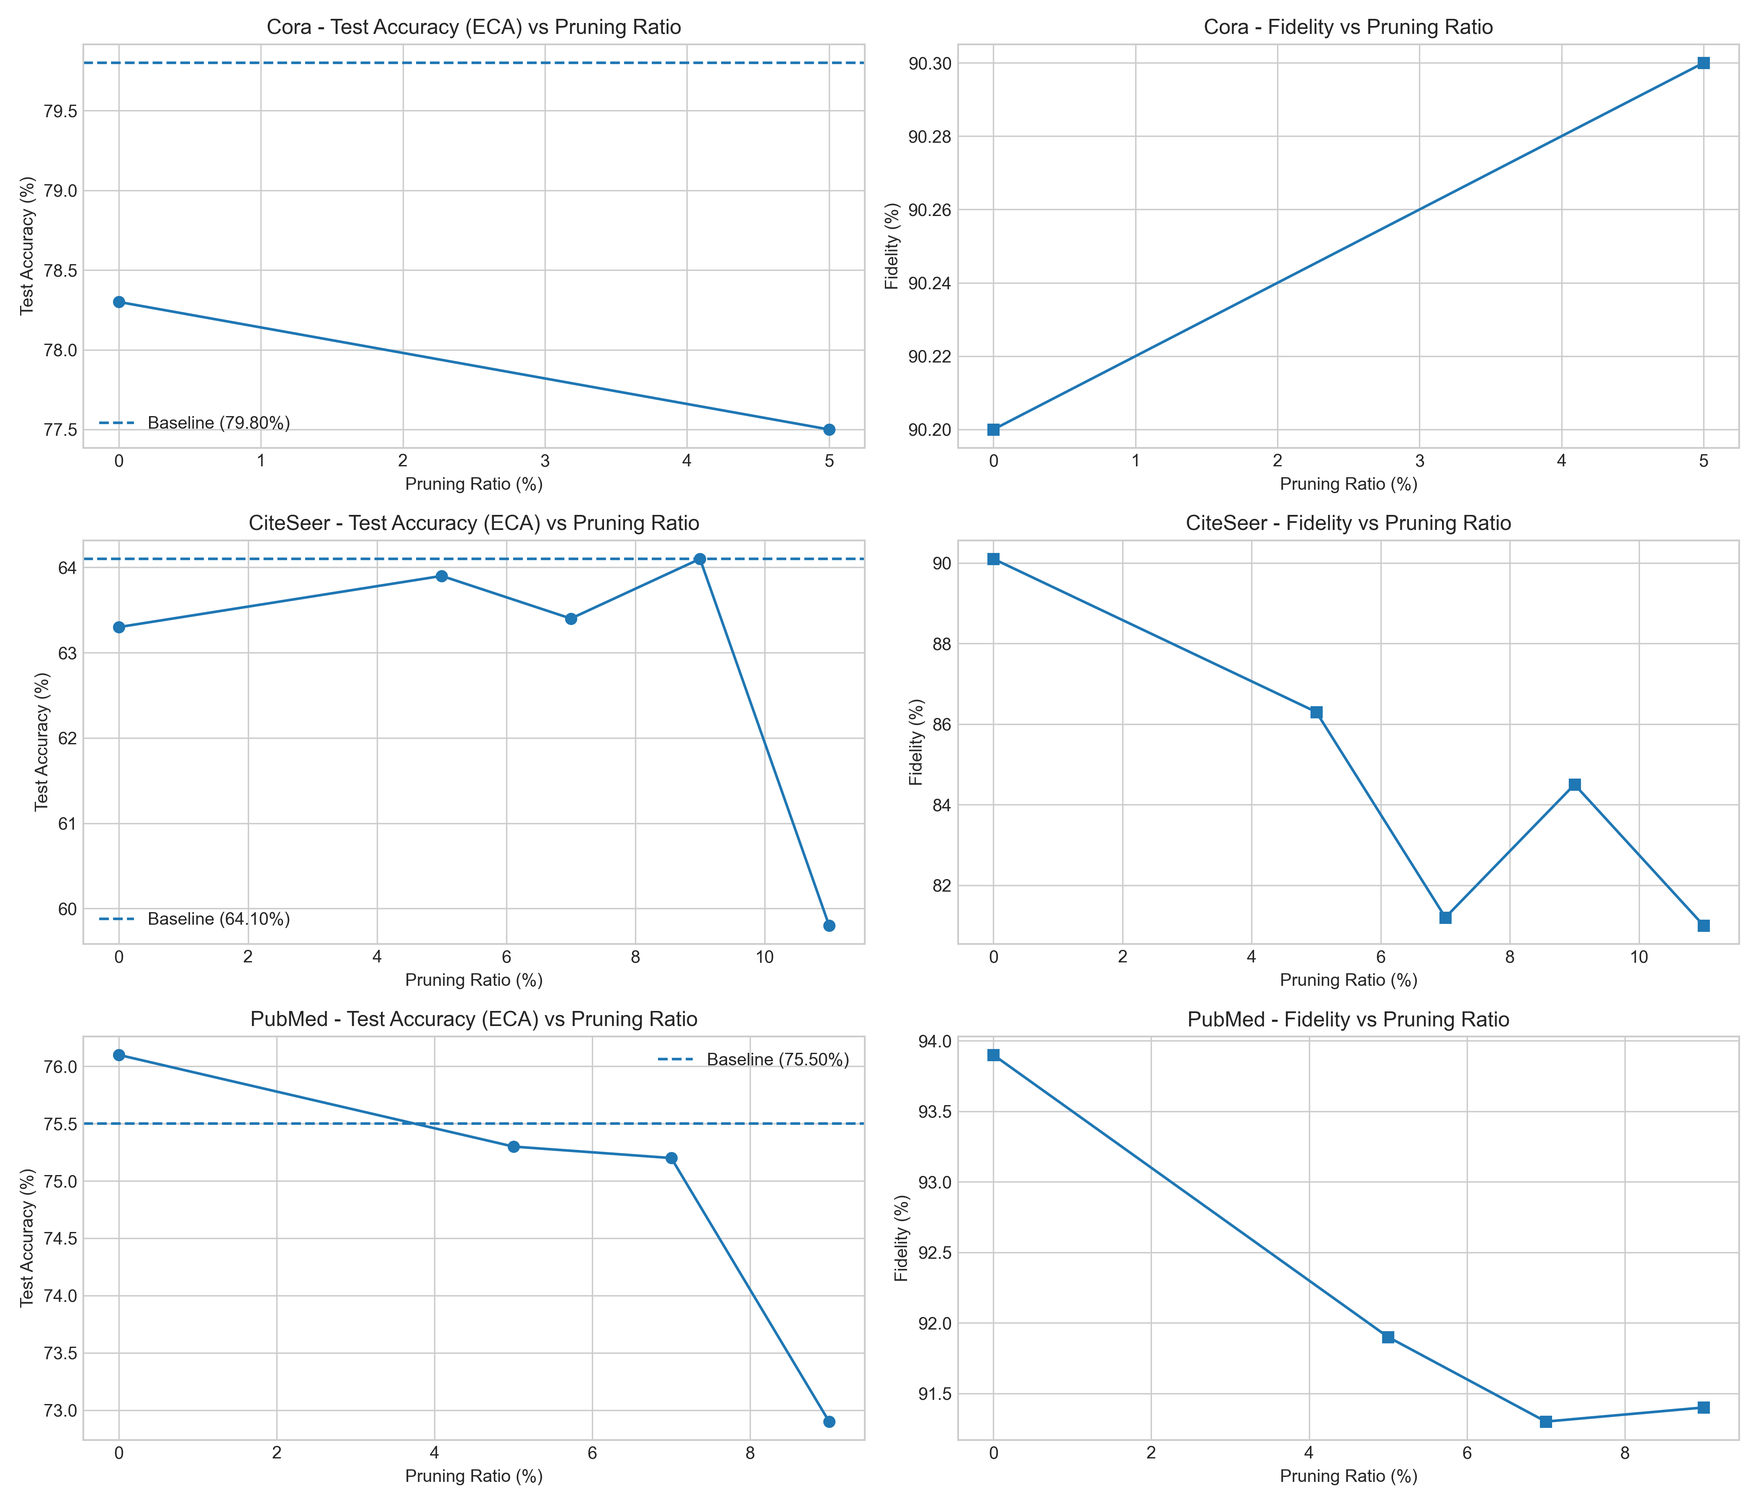
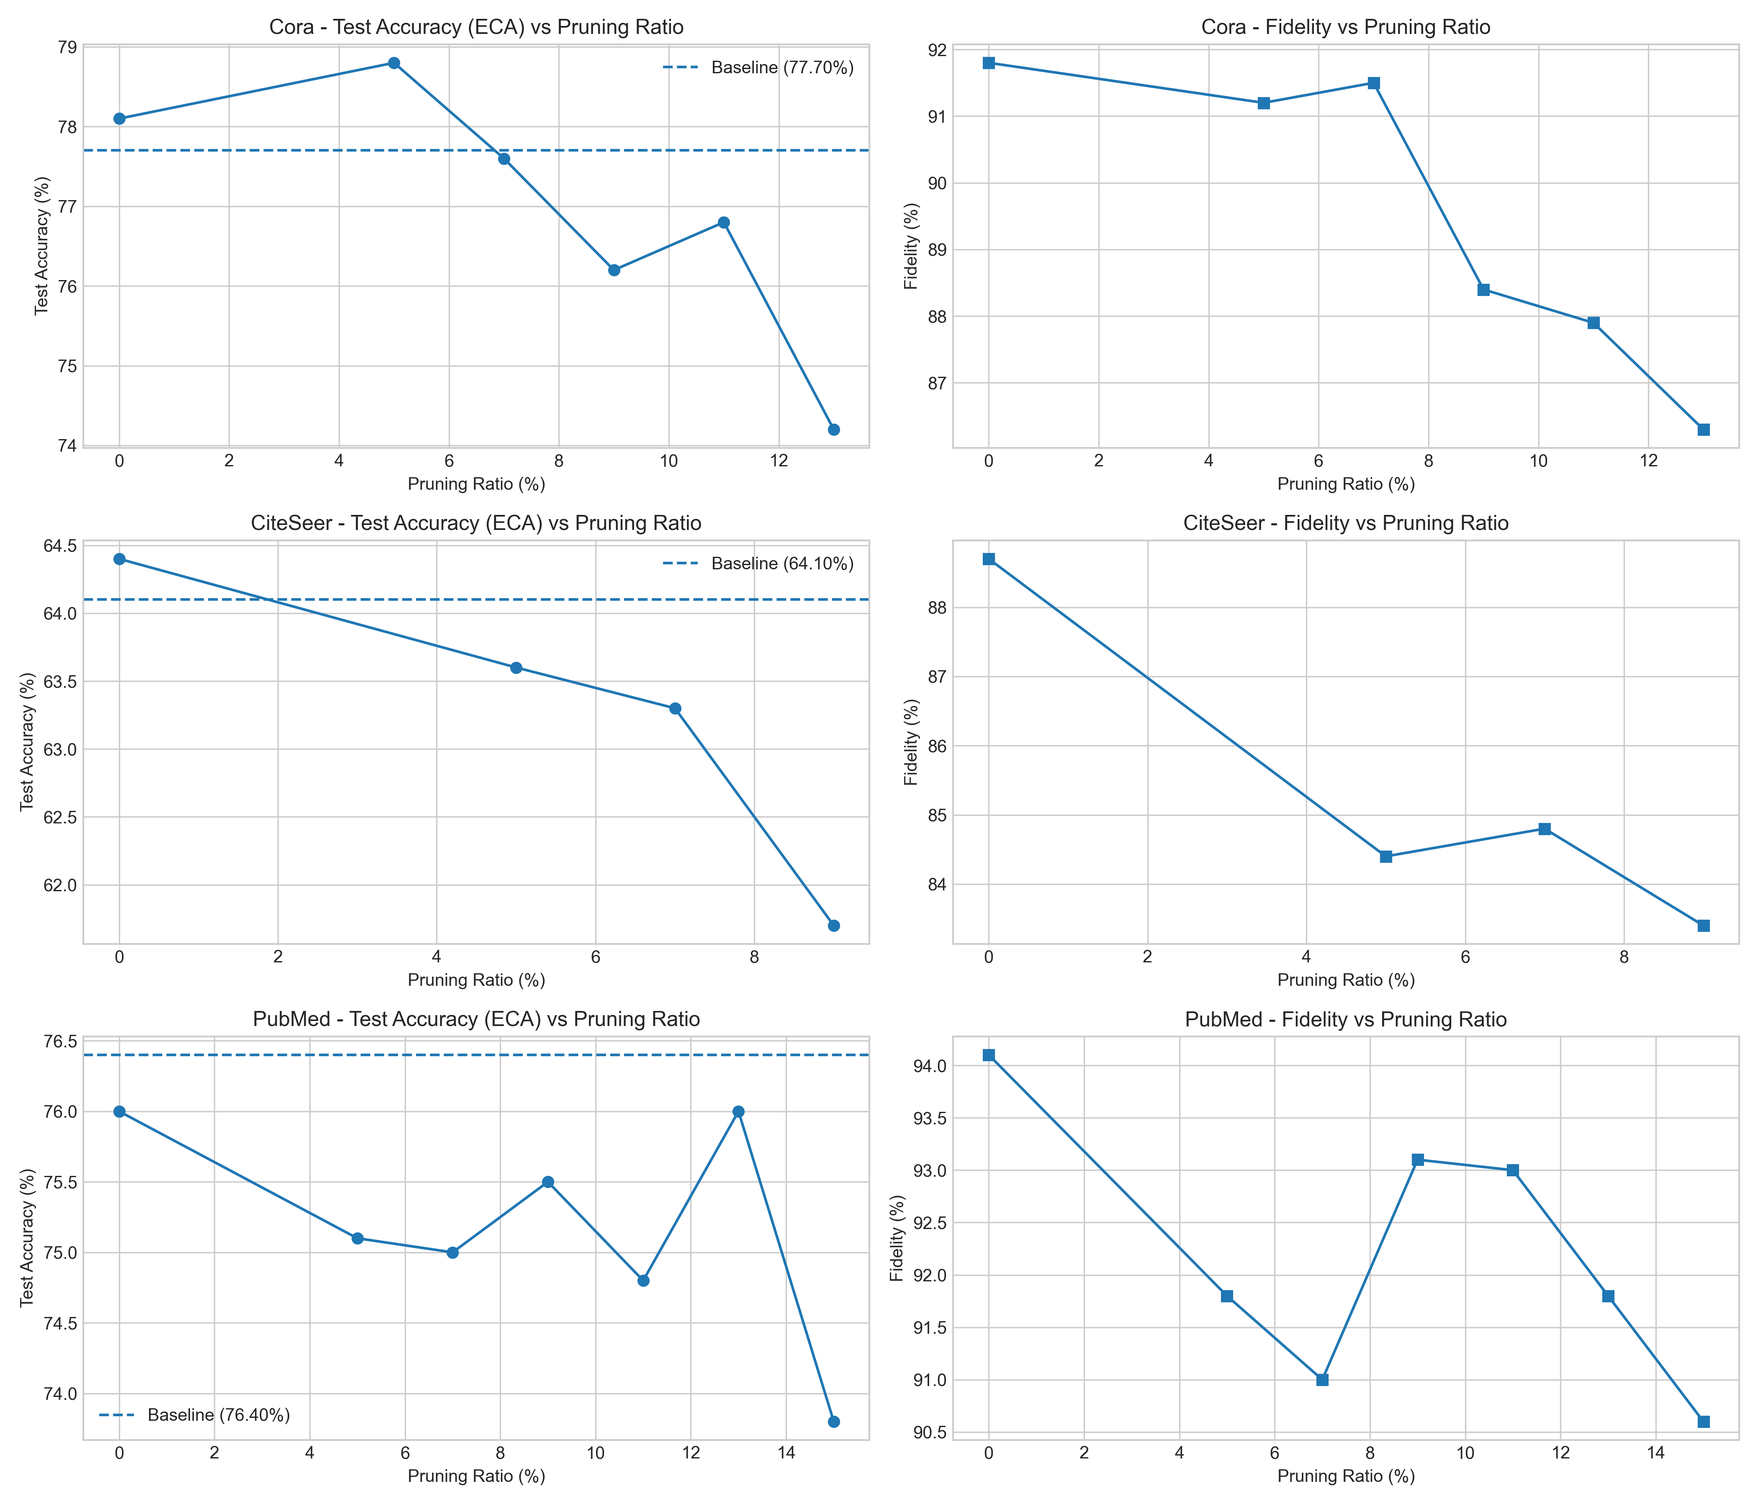
removed comments, unwanted print statements and visualization function

diff --git a/examples/defense/evaluate_backdoor_wm.py b/examples/defense/evaluate_backdoor_wm.py
@@ -1,17 +1,14 @@
 import argparse
 import torch
 import torch.nn.functional as F
-import matplotlib.pyplot as plt
-import numpy as np
-
-from pygip.datasets import Cora, CiteSeer, PubMed
+from pygip.datasets.datasets import Cora, CiteSeer, PubMed
 from pygip.models.defense.BackdoorWM import BackdoorWM
 from pygip.models.nn import GCN
 
 def train_local_model(model, graph, features, labels, mask, device, epochs=300, lr=0.01):
     """A helper function to train a model locally."""
     optimizer = torch.optim.Adam(model.parameters(), lr=lr, weight_decay=5e-4)
-    for epoch in range(epochs):
+    for _ in range(epochs):
         model.train()
         optimizer.zero_grad()
         logits = model(graph.to(device), features.to(device))
@@ -20,155 +17,58 @@ def train_local_model(model, graph, features, labels, mask, device, epochs=300, 
         optimizer.step()
     return model
 
-def visualize_and_save_results(all_results):
-    """
-    Creates a single, comprehensive plot with three sub-charts for all metrics
-    and saves it as one PNG file.
-    """
-    dataset_names = [res['name'] for res in all_results]
-    n_datasets = len(dataset_names)
-
-    original_accs = [res['results']['original_metrics']['accuracy'] * 100 for res in all_results]
-    tcas = [res['results']['TCA'] * 100 for res in all_results]
-    eca1s = [res['results']['s1_metrics']['accuracy'] * 100 for res in all_results]
-    eca2s = [res['results']['s2_metrics']['accuracy'] * 100 for res in all_results]
-    
-    tbas = [res['results']['TBA'] * 100 for res in all_results]
-    eba1s = [res['results']['EBA1'] * 100 for res in all_results]
-    eba2s = [res['results']['EBA2'] * 100 for res in all_results]
-
-    original_f1s = [res['results']['original_metrics']['f1'] for res in all_results]
-    defense_f1s = [res['results']['defense_metrics']['f1'] for res in all_results]
-    s1_f1s = [res['results']['s1_metrics']['f1'] for res in all_results]
-    s2_f1s = [res['results']['s2_metrics']['f1'] for res in all_results]
-
-    x = np.arange(n_datasets)
-    width = 0.2
-    fig, (ax1, ax2, ax3) = plt.subplots(1, 3, figsize=(28, 8))
-    fig.suptitle('Comprehensive Backdoor Watermark Analysis', fontsize=20)
-
-    ax1.bar(x - 1.5*width, original_accs, width, label='Baseline (Clean)')
-    ax1.bar(x - 0.5*width, tcas, width, label='Watermarked (TCA)')
-    ax1.bar(x + 0.5*width, eca1s, width, label='Surrogate w/ Coop (ECA1)')
-    ax1.bar(x + 1.5*width, eca2s, width, label='Surrogate w/o Coop (ECA2)')
-    ax1.set_title('Clean Accuracy Comparison', fontsize=14)
-    ax1.set_ylabel('Accuracy (%)')
-    ax1.set_xticks(x, dataset_names)
-    ax1.set_ylim(0, 100)
-    ax1.legend()
-    ax1.grid(axis='y', linestyle='--', alpha=0.7)
-
-    ax2.bar(x - width, tbas, width, label='Watermarked (TBA)')
-    ax2.bar(x, eba1s, width, label='Surrogate w/ Coop (EBA1)')
-    ax2.bar(x + width, eba2s, width, label='Surrogate w/o Coop (EBA2)')
-    ax2.set_title('Backdoor Accuracy (Watermark Transfer)', fontsize=14)
-    ax2.set_ylabel('Backdoor Accuracy (%)')
-    ax2.set_xticks(x, dataset_names)
-    ax2.set_ylim(0, 100)
-    ax2.legend()
-    ax2.grid(axis='y', linestyle='--', alpha=0.7)
-
-    ax3.bar(x - 1.5*width, original_f1s, width, label='Baseline (Clean)')
-    ax3.bar(x - 0.5*width, defense_f1s, width, label='Watermarked')
-    ax3.bar(x + 0.5*width, s1_f1s, width, label='Surrogate w/ Coop')
-    ax3.bar(x + 1.5*width, s2_f1s, width, label='Surrogate w/o Coop')
-    ax3.set_title('F1-Score Comparison (on Clean Data)', fontsize=14)
-    ax3.set_ylabel('F1-Score (Macro)')
-    ax3.set_xticks(x, dataset_names)
-    ax3.set_ylim(0, 1)
-    ax3.legend()
-    ax3.grid(axis='y', linestyle='--', alpha=0.7)
-
-    fig.tight_layout(rect=[0, 0.03, 1, 0.95])
-    filename = 'full_defense_analysis_summary.png'
-    plt.savefig(filename)
-    plt.close()
-    print(f"\nComprehensive results visualization saved to '{filename}'")
-
-
 def main():
-    parser = argparse.ArgumentParser(description="Run full analysis of Backdoor Watermarking Defense.")
+    parser = argparse.ArgumentParser(description="Evaluate Backdoor Watermarking Defense.")
     parser.add_argument('--datasets', nargs='+', default=['Cora', 'CiteSeer', 'PubMed'], help='List of datasets to run on.')
     parser.add_argument('--device', type=str, default='cpu', help='Device to use (e.g., "cpu", "cuda:0").')
     args = parser.parse_args()
 
     dataset_map = {'Cora': Cora, 'CiteSeer': CiteSeer, 'PubMed': PubMed}
     verification_threshold = 0.50
-    
-    all_results = []
 
     for dataset_name in args.datasets:
         if dataset_name not in dataset_map:
-            print(f"Dataset '{dataset_name}' not found. Skipping.")
             continue
-
-        print("\n" + "#"*70)
-        print(f"  ANALYZING DATASET: {dataset_name.upper()} on device {args.device.upper()}")
-        print("#"*70)
-
+        
+        print(f"\n--- Results for: {dataset_name} ---")
         dataset = dataset_map[dataset_name](api_type='dgl')
         med = BackdoorWM(dataset, attack_node_fraction=0.1, trigger_rate=0.2, l=40, target_label=0)
         med.device = torch.device(args.device)
         med.graph_data = med.graph_data.to(med.device)
 
-        print("\n--- Training Clean Baseline Model ---")
         clean_model = GCN(med.num_features, med.num_classes).to(med.device)
+
+        # --- Watermarked Model Training & Verification ---
+        # Train the target model with the backdoor watermark embedded.
         train_local_model(clean_model, med.graph_data, med.features, med.labels, med.train_mask, med.device)
-        original_metrics = med.evaluate_model(clean_model, med.features, med.labels)
         
-        print("\n--- Training Watermarked Target Model (F_wm) ---")
         watermarked_model = med.train_target_model()
-        defense_metrics = med.evaluate_model(watermarked_model, med.features, med.labels) 
-        TCA = defense_metrics['accuracy']
         TBA = med.verify_backdoor(watermarked_model, med.trigger_nodes, med.target_label) 
 
-        print("\n--- Simulating Model Extraction Attacks ---")
+        # --- Surrogate Model 1: Cooperative Attacker ---
+        # Simulate a model extraction attack where the attacker knows about the poisoned features.
         surrogate_model_1 = GCN(med.num_features, med.num_classes).to(med.device)
         with torch.no_grad():
             surrogate_labels_1 = watermarked_model(med.graph_data, med.poisoned_features).argmax(dim=1)
         train_local_model(surrogate_model_1, med.graph_data, med.poisoned_features, surrogate_labels_1, med.train_mask, med.device)
-        s1_metrics = med.evaluate_model(surrogate_model_1, med.features, med.labels)
         EBA1 = med.verify_backdoor(surrogate_model_1, med.trigger_nodes, med.target_label)
         
+        # --- Surrogate Model 2: Non-Cooperative Attacker ---
+        # Simulate an attack where the attacker only has black-box access and uses clean data.
         surrogate_model_2 = GCN(med.num_features, med.num_classes).to(med.device)
         with torch.no_grad():
             surrogate_labels_2 = watermarked_model(med.graph_data, med.features).argmax(dim=1)
         train_local_model(surrogate_model_2, med.graph_data, med.features, surrogate_labels_2, med.train_mask, med.device)
-        s2_metrics = med.evaluate_model(surrogate_model_2, med.features, med.labels)
         EBA2 = med.verify_backdoor(surrogate_model_2, med.trigger_nodes, med.target_label)
 
-        
-        results_for_viz = {
-            'original_metrics': original_metrics, 'TCA': TCA, 'TBA': TBA,
-            'defense_metrics': defense_metrics, 's1_metrics': s1_metrics,
-            's2_metrics': s2_metrics, 'EBA1': EBA1, 'EBA2': EBA2
-        }
-        all_results.append({'name': dataset_name, 'results': results_for_viz})
-
-        
-        print("\n======================== Final Results =========================================")
-        
-        print(f"  Baseline Model (Clean):")
-        print(f"    - Original Accuracy: {original_metrics['accuracy'] * 100:.2f}%, F1: {original_metrics['f1']:.4f}")
-        print(f"\n  Watermarked Model (F_wm):")
-        print(f"    - Clean Accuracy (TCA): {TCA * 100:.2f}%")
-        print(f"    - Backdoor Accuracy (TBA): {TBA * 100:.2f}%")
-        print(f"    - F1 Score (on clean data): {defense_metrics['f1']:.4f}")
-        print("\n  Scenario 1: Surrogate Model (With Cooperation)")
+        # If the extracted backdoor accuracy is above the threshold, the watermark is considered "Extracted".
+        # Otherwise, the surrogate model is considered "Independent" of the watermark.
         v1_result = "Extracted" if EBA1 > verification_threshold else "Independent"
-        print(f"    - Clean Accuracy (ECA): {s1_metrics['accuracy'] * 100:.2f}%")
-        print(f"    - Backdoor Accuracy (EBA): {EBA1 * 100:.2f}%")
-        print(f"    - Verification Result: {v1_result}")
-        print("\n  Scenario 2: Surrogate Model (Without Cooperation)")
         v2_result = "Extracted" if EBA2 > verification_threshold else "Independent"
-        print(f"    - Clean Accuracy (ECA): {s2_metrics['accuracy'] * 100:.2f}%")
-        print(f"    - Backdoor Accuracy (EBA): {EBA2 * 100:.2f}%")
-        print(f"    - Verification Result: {v2_result}")
-        print("==============================================================================")
-    
-    # After the loop, create the single summary image So that the user can know it in a glance
-    if all_results:
-        visualize_and_save_results(all_results)
+        
+        print(f"  Watermarked Model -> Backdoor Accuracy (TBA): {TBA * 100:.2f}%")
+        print(f"  Surrogate w/ Coop -> Backdoor Accuracy (EBA1): {EBA1 * 100:.2f}%  | Verification: {v1_result}")
+        print(f"  Surrogate w/o Coop -> Backdoor Accuracy (EBA2): {EBA2 * 100:.2f}% | Verification: {v2_result}")
 
 if __name__ == '__main__':
     main()

diff --git a/examples/defense/evaluate_graph_pruning.py b/examples/defense/evaluate_graph_pruning.py
@@ -2,6 +2,8 @@ import matplotlib.pyplot as plt
 from pygip import datasets
 from pygip.models.defense import GraphPruningDefense
 
+
+# This dictionary holds all the parameters for the experiment.
 CONFIG = {
     "datasets_to_run": ["Cora", "CiteSeer", "PubMed"],
     "initial_pruning_ratio": 0.05,
@@ -10,108 +12,55 @@ CONFIG = {
     "attack_node_fraction": 0.2
 }
 
-def generate_summary_plot(all_results, max_drop_threshold):
-    plt.style.use('seaborn-v0_8-whitegrid')
-    fig, axs = plt.subplots(len(all_results), 2, figsize=(14, 4 * len(all_results)))
-    if len(all_results) == 1:
-        axs = [axs]
-
-    for ax_row, (dataset_name, results) in zip(axs, all_results.items()):
-        ratios = sorted(results.keys())
-        ecas = [results[r]['ECA'] * 100 for r in ratios]
-        fidelities = [results[r]['Fidelity'] * 100 for r in ratios]
-        ratios_percent = [r * 100 for r in ratios]
-
-        ax_e = ax_row[0]
-        ax_e.plot(ratios_percent, ecas, marker='o', linestyle='-')
-        baseline = results.get(0.0, {}).get('baseline_accuracy', None)
-        if baseline is not None:
-            ax_e.axhline(y=baseline * 100, linestyle='--', label=f'Baseline ({baseline*100:.2f}%)')
-        ax_e.set_title(f'{dataset_name} - Test Accuracy (ECA) vs Pruning Ratio')
-        ax_e.set_xlabel('Pruning Ratio (%)'); ax_e.set_ylabel('Test Accuracy (%)')
-        ax_e.grid(True); ax_e.legend()
-
-        ax_f = ax_row[1]
-        ax_f.plot(ratios_percent, fidelities, marker='s', linestyle='-')
-        ax_f.set_title(f'{dataset_name} - Fidelity vs Pruning Ratio')
-        ax_f.set_xlabel('Pruning Ratio (%)'); ax_f.set_ylabel('Fidelity (%)')
-        ax_f.grid(True)
-
-    plt.tight_layout()
-    save_path = "pruning_ECA_fidelity_summary.png"
-    plt.savefig(save_path, dpi=300)
-    print(f"\nSummary plot saved to: {save_path}")
-
 def main():
     all_results_for_plot = {}
     datasets_to_run = CONFIG["datasets_to_run"]
-    num_total_steps = len(datasets_to_run) + 1
-
+    
+    # Process each dataset specified in the CONFIG.
     for i, dataset_name in enumerate(datasets_to_run):
-        step_num = i + 1
-        print("\n" + "="*80)
-        print(f"      STEP [{step_num}/{num_total_steps}]: Running Experiment for {dataset_name.upper()}")
-        print("="*80)
-
-        print(f"\n   - Sub-step [1/3]: Loading {dataset_name} and calculating baseline...")
+        print(f"Processing dataset: {dataset_name}")
         dataset_class = getattr(datasets, dataset_name)
         dataset = dataset_class()
         
-        baseline_defense = GraphPruningDefense(dataset,attack_node_fraction=["attack_node_fraction"],pruning_ratio=0.0)
-        baseline_results = baseline_defense.defend()
-        baseline_accuracy = baseline_results['baseline_accuracy']
-        print(f"     -> Baseline Accuracy for {dataset_name}: {baseline_accuracy * 100:.2f}%")
+        defense = GraphPruningDefense(dataset, attack_node_fraction=CONFIG["attack_node_fraction"], pruning_ratio=0.0)
         
-        print(f"\n   - Sub-step [2/3]: Searching for optimal pruning ratio...")
+        baseline_results = defense.defend()
+        baseline_accuracy = baseline_results['baseline_accuracy']
+        
         current_ratio = CONFIG["initial_pruning_ratio"]
         run_results = {0.0: baseline_results}
-        
+
+
+        # This loop iteratively increases the pruning ratio and stops when accuracy drops too much.        
         while True:
-            defense = GraphPruningDefense(dataset,attack_node_fraction=CONFIG["attack_node_fraction"], pruning_ratio=current_ratio)
+            defense.pruning_ratio = current_ratio
+            
             results_dict = defense.defend()
             run_results[current_ratio] = results_dict
             current_accuracy = results_dict['ECA']
             accuracy_drop = baseline_accuracy - current_accuracy
 
-            print(f"Using device: {defense.device}")
-            print(f"   -> Metrics for {dataset_name} (ratio={current_ratio*100:.1f}%):")
-            print(f"      ECA: {results_dict['ECA']*100:.2f}% | Fidelity: {results_dict['Fidelity']*100:.2f}% | Edges removed: {results_dict['edges_removed']}")
-            
             if accuracy_drop <= CONFIG["max_accuracy_drop"]:
-                print(f"      -> Success! Drop: {accuracy_drop*100:.2f}%. Continuing search.")
                 current_ratio = round(current_ratio + CONFIG["pruning_step"], 2)
             else:
-                print(f"      -> Stopping. Drop of {accuracy_drop*100:.2f}% exceeded threshold.")
                 break
             if current_ratio >= 0.8:
-                print("      -> Stopping. Reached maximum pruning limit.")
                 break
         
         all_results_for_plot[dataset_name] = run_results
 
-        print(f"\n   - Sub-step [3/3]: Optimal Pruning Results for {dataset_name}")
         optimal_ratio = 0.0
         optimal_metrics = baseline_results
         for ratio, metrics in run_results.items():
             if (baseline_accuracy - metrics['ECA']) <= CONFIG["max_accuracy_drop"] and ratio > optimal_ratio:
                 optimal_ratio = ratio
                 optimal_metrics = metrics
-        
-        print("     " + "="*60)
-        print(f"      Baseline Accuracy:         {baseline_accuracy * 100:.2f}%")
-        print(f"      Acceptable Accuracy Drop:  < {CONFIG['max_accuracy_drop'] * 100:.2f}%")
-        print("     " + "-" * 60)
-        print(f"      Optimal Pruning Ratio:     {optimal_ratio * 100:.1f}%")
-        print(f"      Accuracy at this Ratio:    {optimal_metrics['ECA'] * 100:.2f}%")
-        print(f"      Fidelity at this Ratio:    {optimal_metrics['Fidelity'] * 100:.2f}%")
-        print(f"      Edges removed:             {optimal_metrics['edges_removed']}")
-        print("     " + "="*60)
 
-    print("\n" + "="*80)
-    print(f"      STEP [{num_total_steps}/{num_total_steps}]: Generating Overall Summary Plot")
-    print("="*80)
-    generate_summary_plot(all_results_for_plot, CONFIG["max_accuracy_drop"])
-    print("="*80)
+        print(f"    -> Optimal Pruning Ratio: {optimal_ratio*100:.1f}%")
+        print(f"    -> Metrics for {dataset_name} (ratio={optimal_ratio*100:.1f}%):")
+        print(f"        ECA: {optimal_metrics['ECA']*100:.2f}% | Fidelity: {optimal_metrics['Fidelity']*100:.2f}% | Edges removed: {optimal_metrics['edges_removed']}")
+        print("="*80)
+
 
 if __name__ == "__main__":
     main()

diff --git a/pygip/models/defense/graph_pruning.py b/pygip/models/defense/graph_pruning.py
@@ -24,6 +24,8 @@ class GraphPruningDefense(BaseDefense):
         super().__init__(dataset, attack_node_fraction, **kwargs)
         self.pruning_ratio = pruning_ratio
 
+
+    # A helper function to train a SimpleGCN model on a given graph.
     def _train_gcn_model(self, graph, epochs=100, lr=0.01, return_pred=False):
         graph = graph.to(self.device)
         features = graph.ndata['feat']
@@ -52,6 +54,8 @@ class GraphPruningDefense(BaseDefense):
             return test_acc, pred
         return test_acc
 
+
+    # Main method to execute the defense and calculate evaluation metrics.
     def defend(self):
         """
         Run baseline and pruned models and return ECA and Fidelity.
@@ -69,8 +73,10 @@ class GraphPruningDefense(BaseDefense):
         else:
             pruned_graph = original_graph
 
+        # Also add self-loops to the pruned graph for consistency.
         pruned_graph = dgl.add_self_loop(pruned_graph)
 
+        # Train a new GCN model from scratch on the pruned graph.
         pruned_acc, pruned_pred = self._train_gcn_model(pruned_graph, return_pred=True)
 
         test_mask = pruned_graph.ndata['test_mask']

diff --git a/pygip/models/defense/__init__.py b/pygip/models/defense/__init__.py
@@ -6,15 +6,16 @@ from .SurviveWM import SurviveWM
 from .SurviveWM2 import SurviveWM2
 from .atom.ATOM import ATOM
 from .Integrity import QueryBasedVerificationDefense as IntegrityVerification
+
 from .graph_pruning import GraphPruningDefense
 
 __all__ = [
     'BackdoorWM',
-    'GraphPruningDefense',
     'ImperceptibleWM',
     'ImperceptibleWM2',
     'RandomWM',
     'SurviveWM',
     'SurviveWM2',
-    'ATOM'
+    'ATOM',
+    'GraphPruningDefense'
 ]
